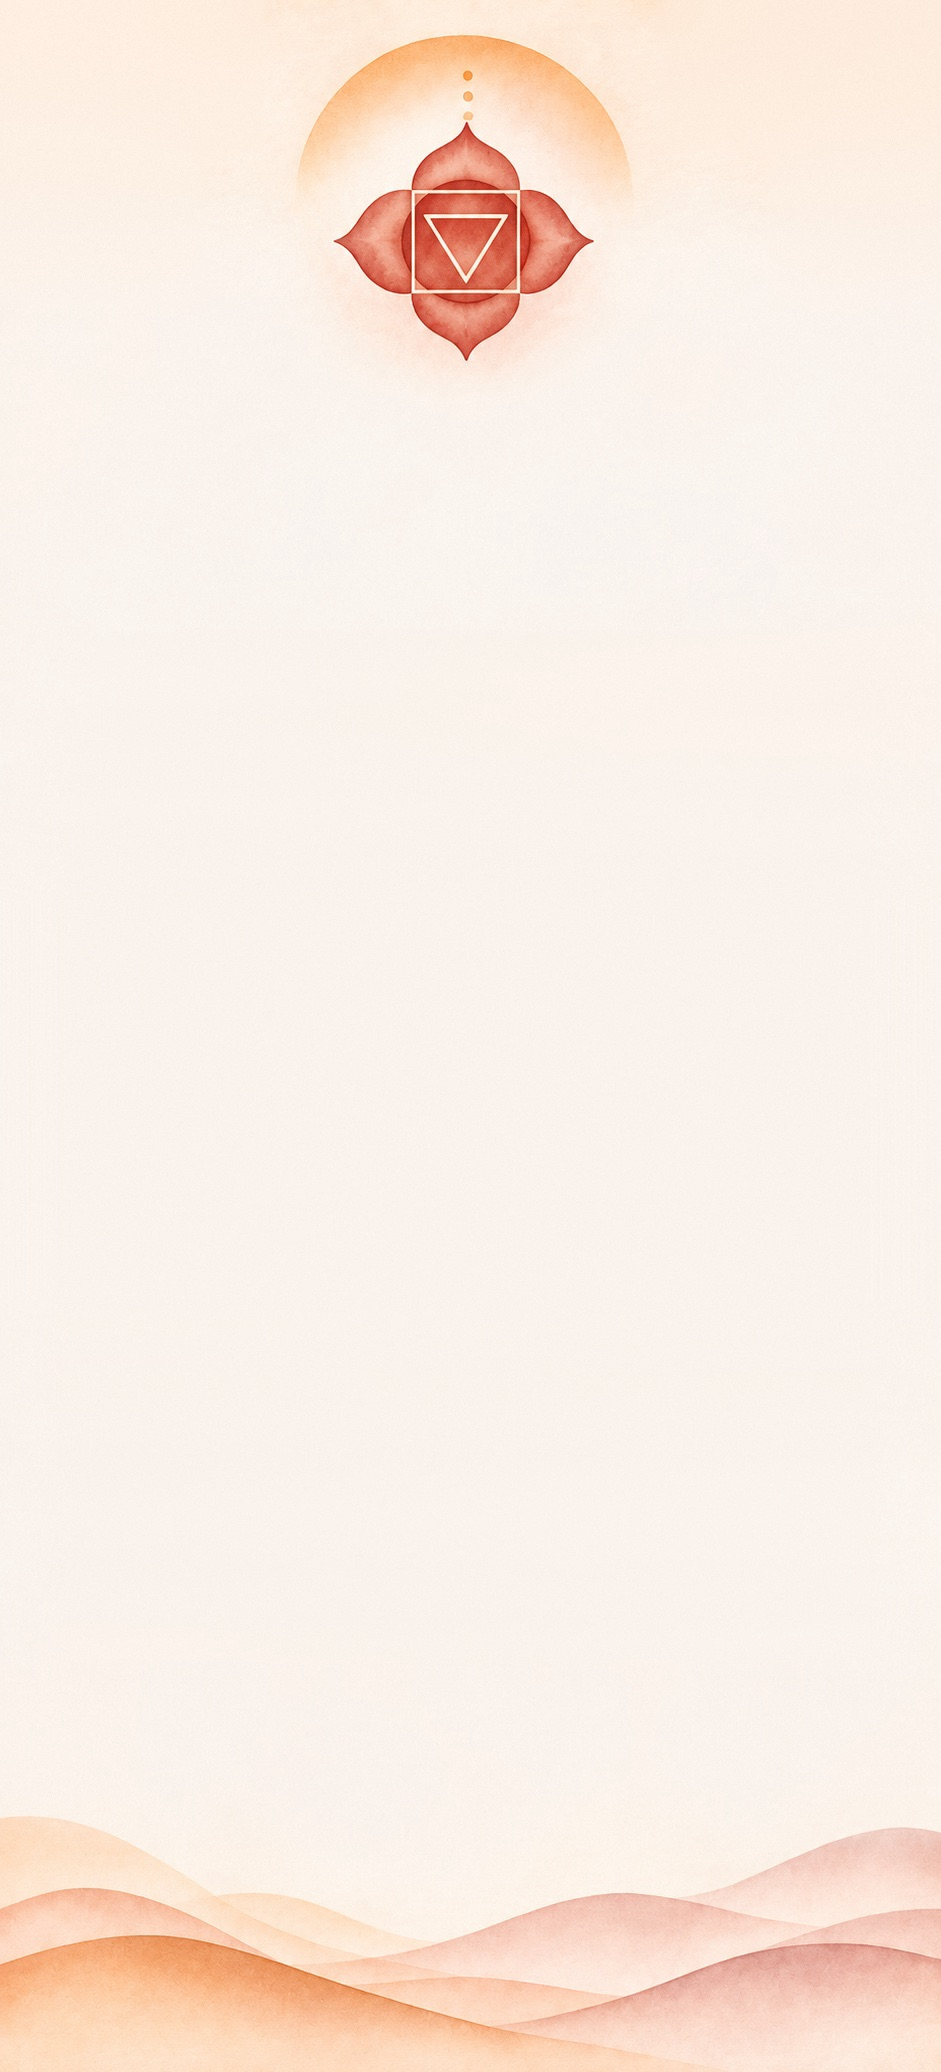
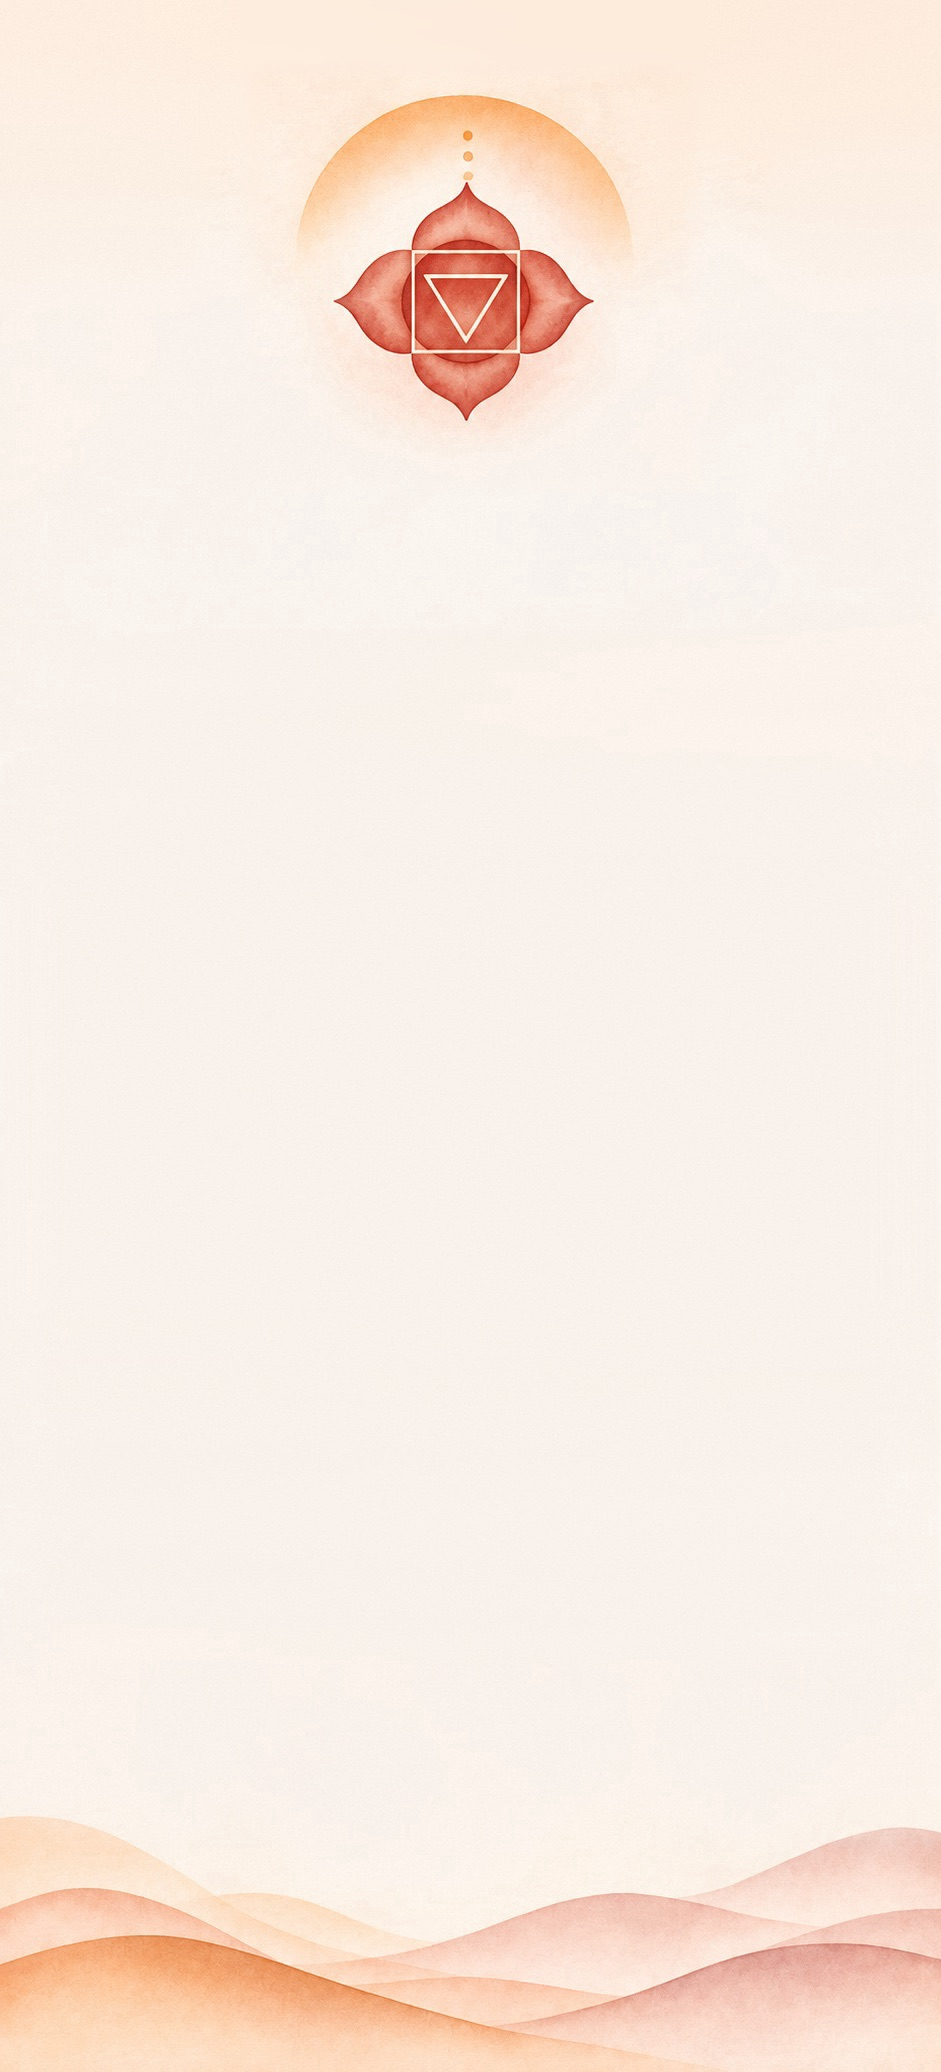
Chakra introduction: lower the chakra symbol

Changed region(s): [[0.3082, 0.0, 0.678, 0.2162]]

diff --git a/app/chakra-of-the-day.tsx b/app/chakra-of-the-day.tsx
@@ -23,11 +23,11 @@ const SYMBOLS: Record<string, { src: number; fill: number }> = {
   thirdEye:    { src: require('../assets/symbol-third-eye.png'),    fill: 1 }, // cropped to the lotus
 };
 const LOTUS_CX = 470;  // where the painted Root lotus sits on the page, in artwork pixels
-const LOTUS_CY = 243;
+const LOTUS_CY = 303;
 const LOTUS_D = 270;   // its width
 const ART_W = 941;
 const ART_H = 2072;
-const LOTUS_BOTTOM = 385; // bottom of the painted lotus's glow, in artwork pixels
+const LOTUS_BOTTOM = 445; // bottom of the painted lotus's glow, in artwork pixels
 const HILLS_TOP = 1815; // where the painted hills begin, in artwork pixels
 const PAPER = '#FDEDDC';
 const CARD = '#FEFCFA';
